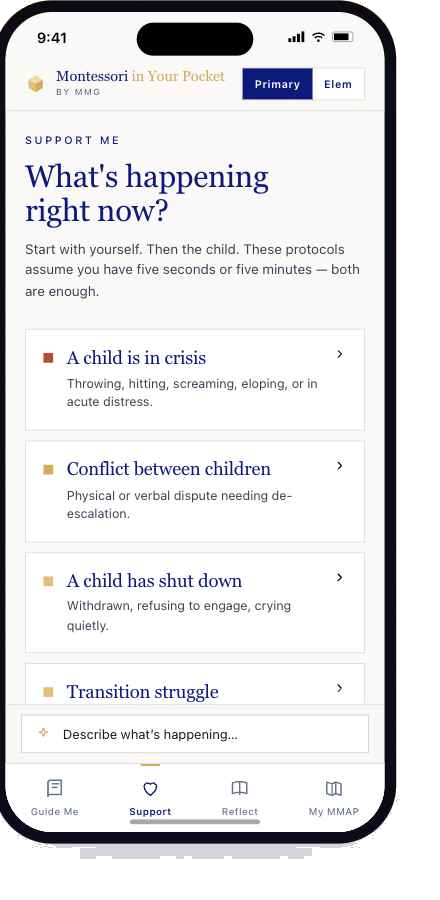
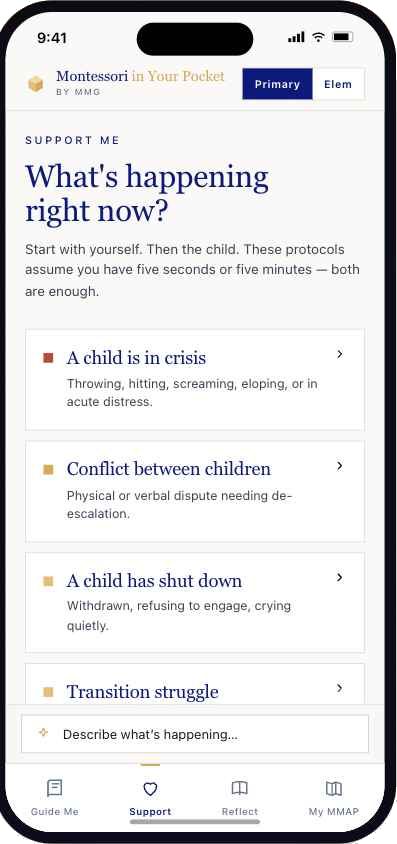
Update Field Guide screenshots to clean transparent PNGs (397x844)

Changed region(s): [[0.0, 0.0, 1.0, 1.0]]

diff --git a/app/field-guide/page.tsx b/app/field-guide/page.tsx
@@ -133,8 +133,8 @@ export default function FieldGuidePage() {
                     <Image
                       src={m.screenshot}
                       alt={m.screenshotAlt ?? m.name}
-                      width={440}
-                      height={900}
+                      width={397}
+                      height={844}
                       className="w-full h-auto"
                     />
                   </div>
